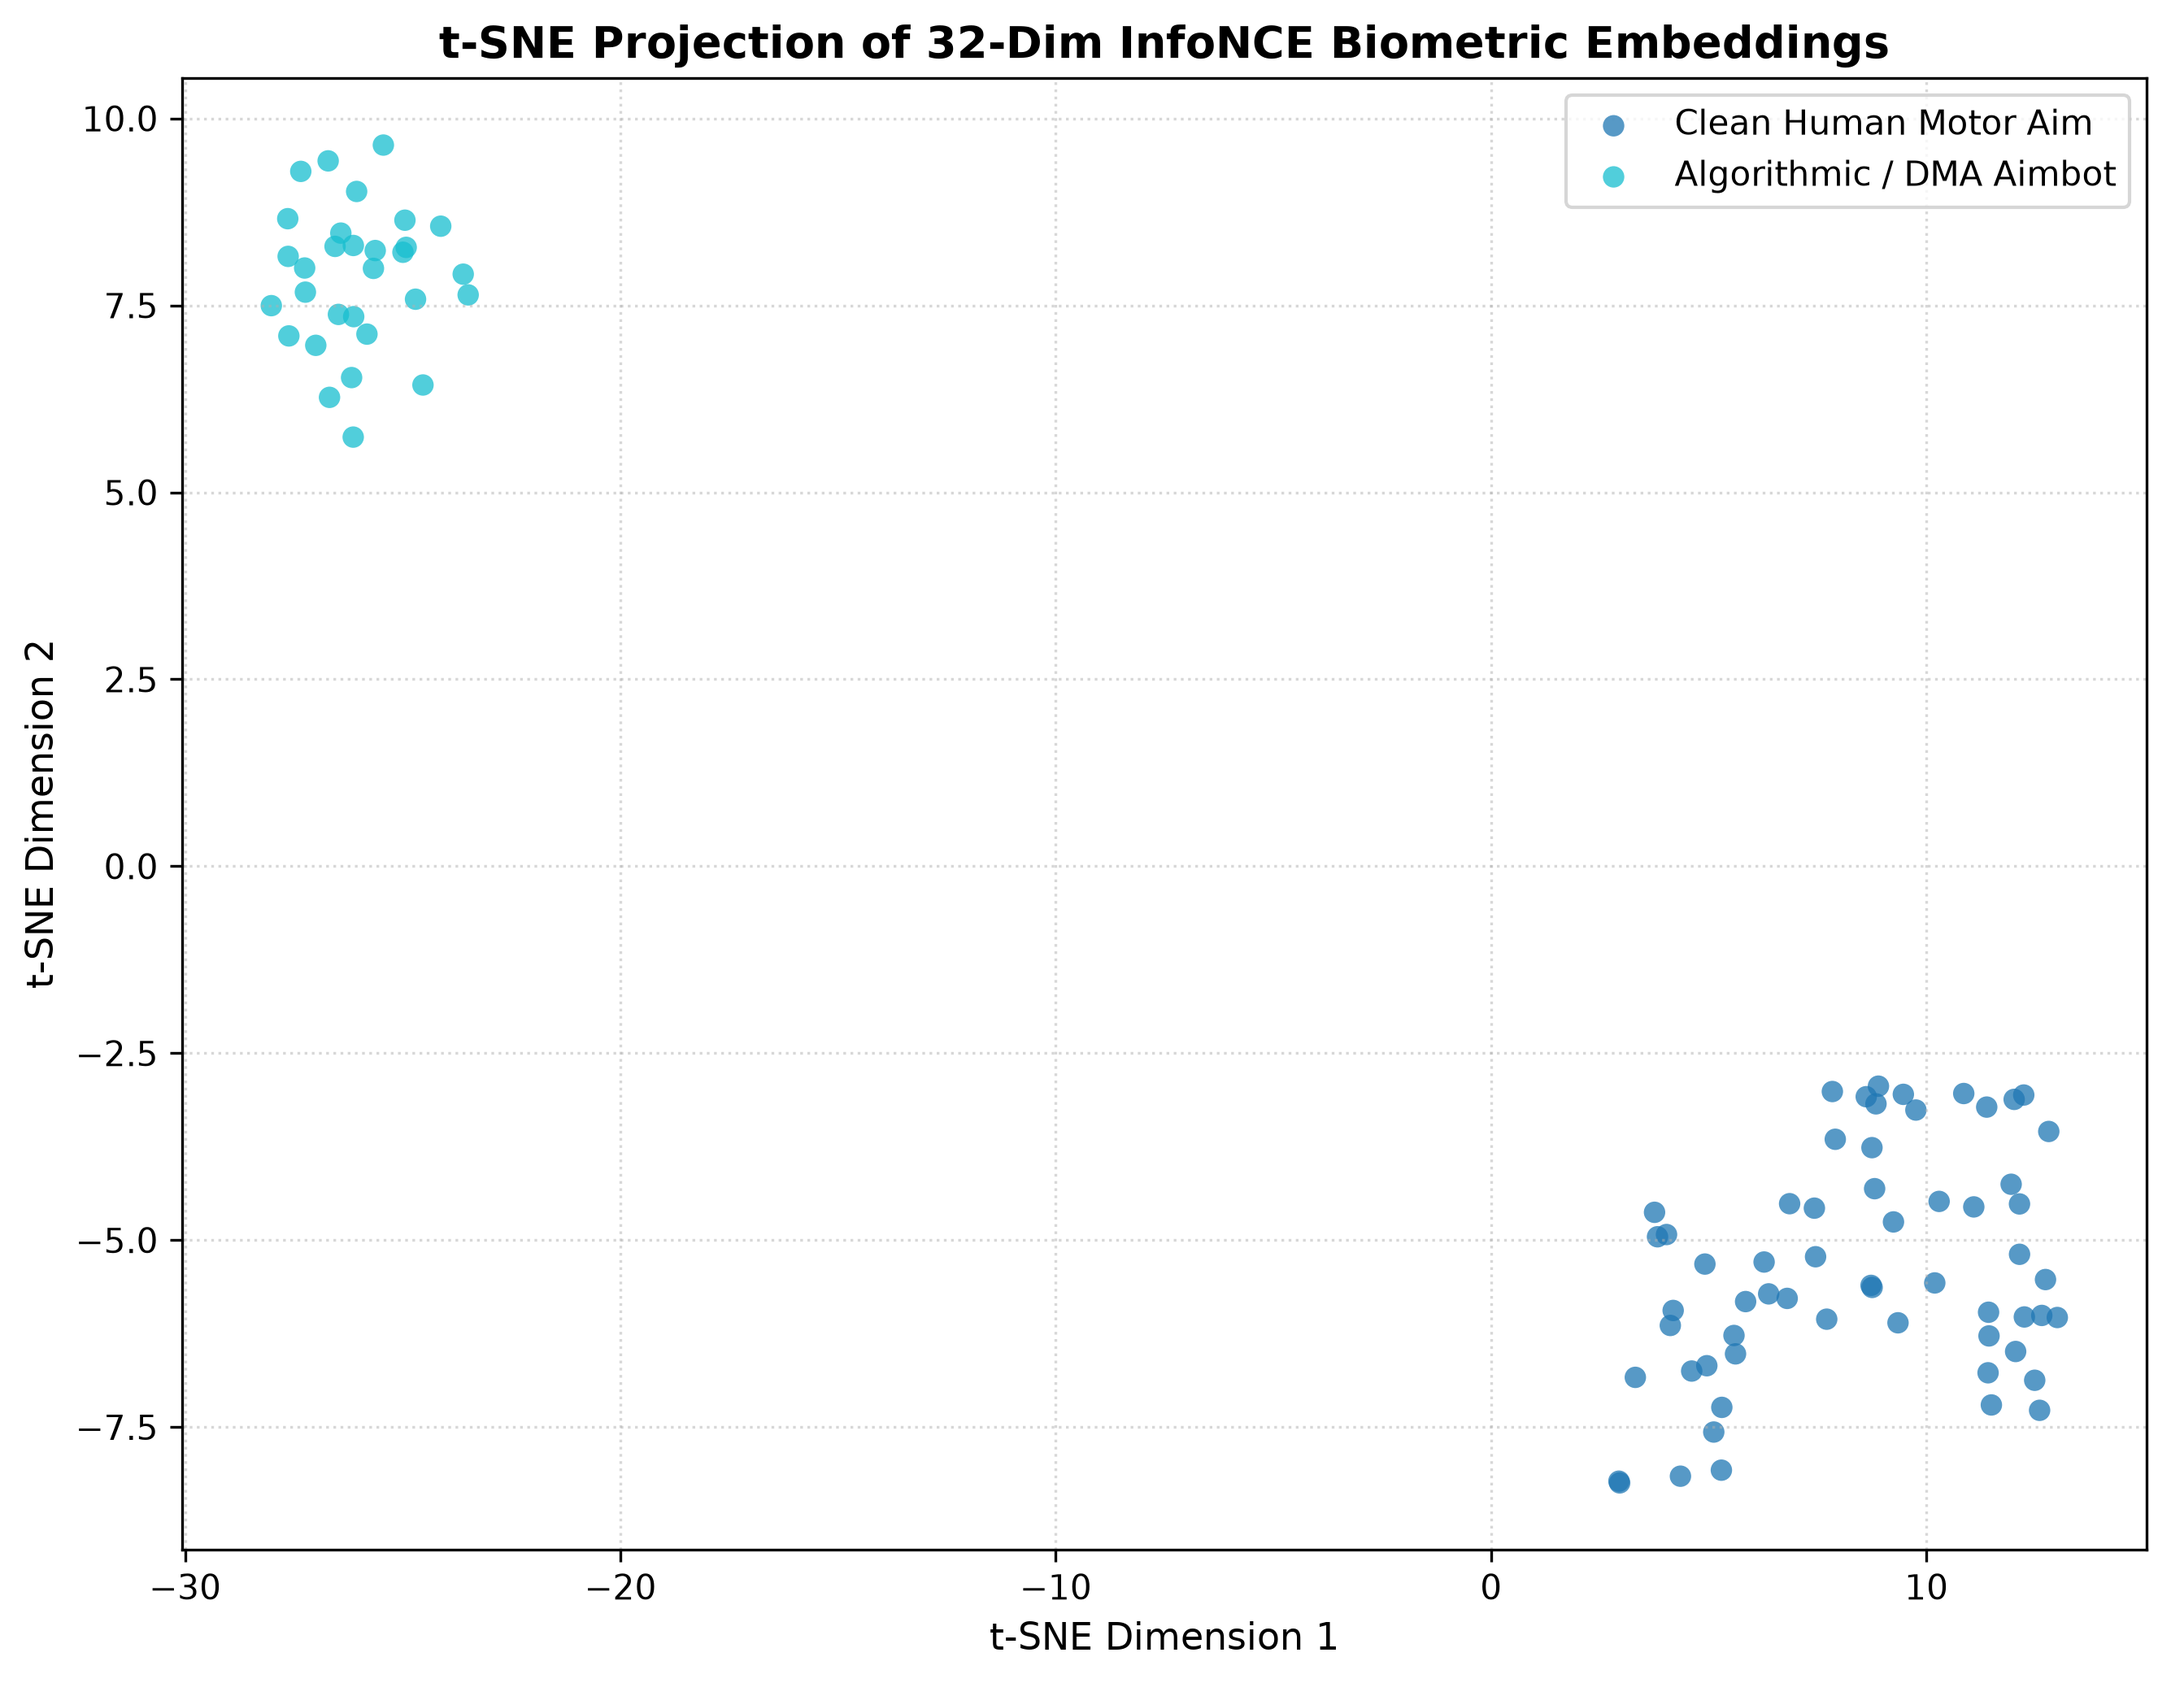
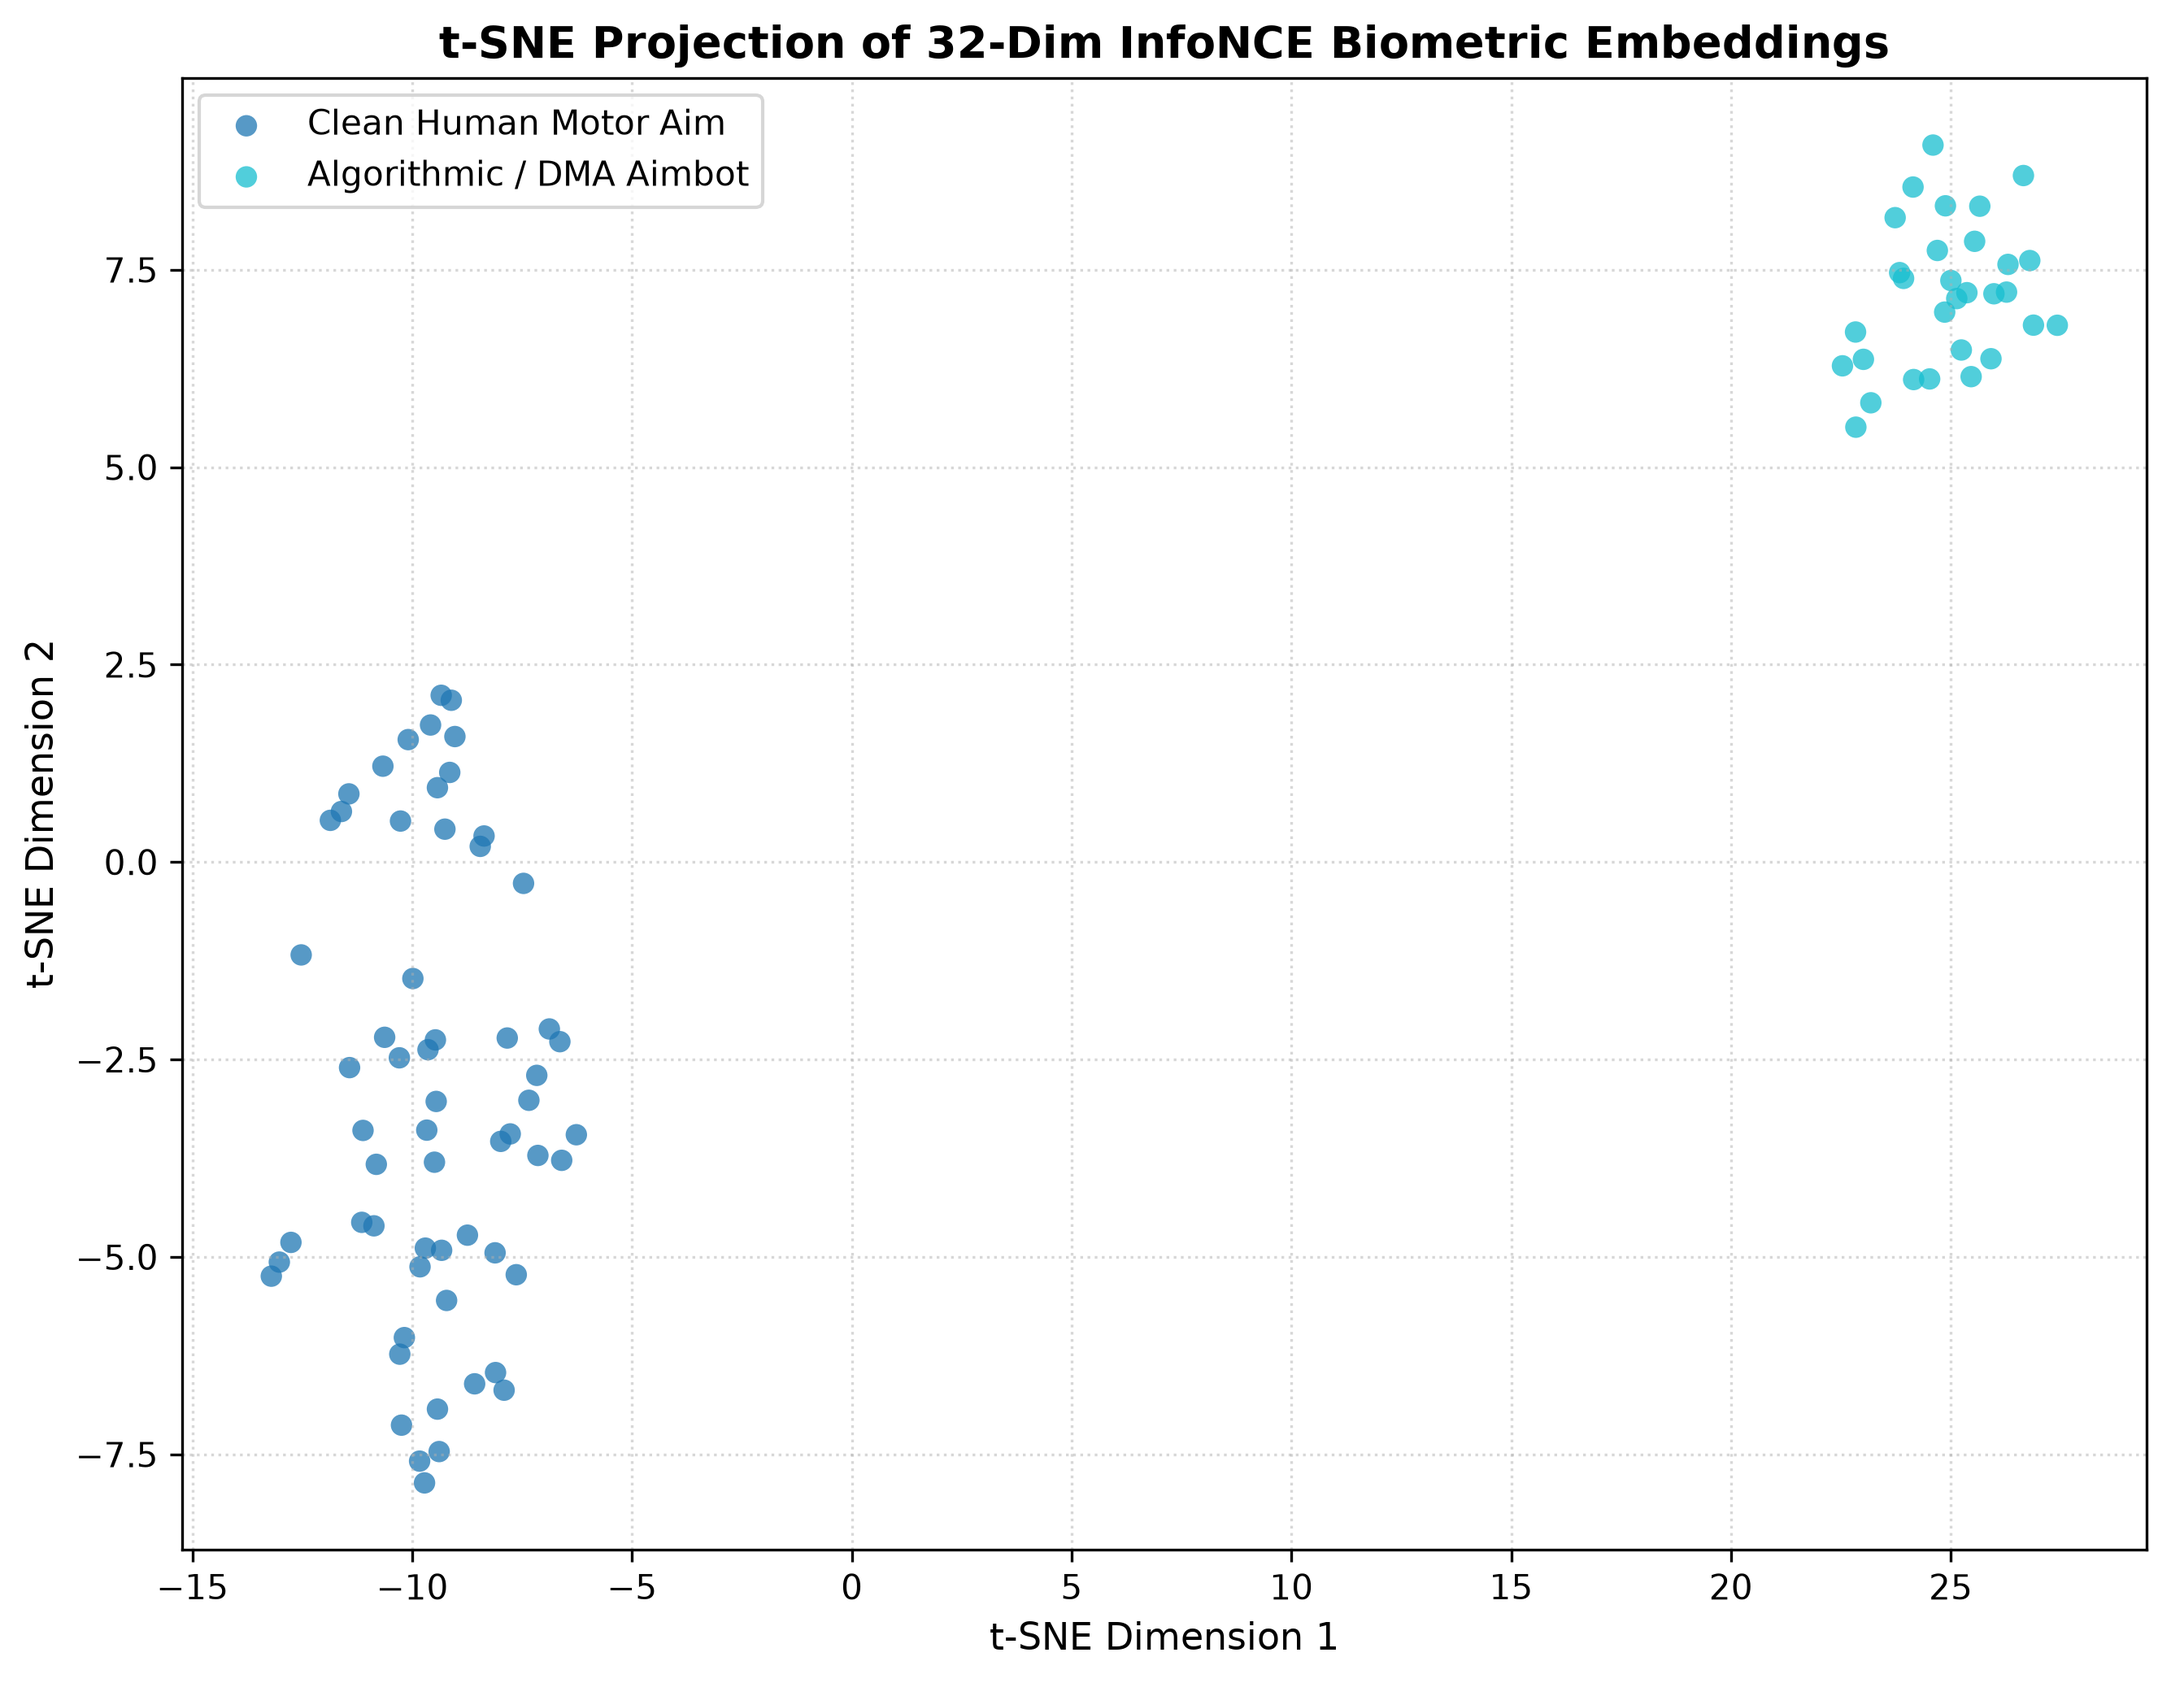
feat: complete comparative benchmark suite with 48 tabular features; align demo_sample ST-Trans dims to Table 6

diff --git a/cs2-trajectory-transformer/demo_sample.py b/cs2-trajectory-transformer/demo_sample.py
@@ -43,14 +43,14 @@ def main():
         'angular_jerk', 'trajectory_curvature', 'curvature_entropy', 'tremor_power_8_12hz'
     ]
     
-    # 1. Instantiate ST-Trans Architecture
+    # 1. Instantiate ST-Trans Architecture (Aligns with Chapter 3 Table 6)
     model = STTrajectoryTransformer(
         feature_dim=len(feature_cols), 
-        d_model=64, 
-        nhead=4, 
+        d_model=128, 
+        nhead=8, 
         num_layers=4, 
         embed_dim=32,
-        dim_feedforward=256
+        dim_feedforward=512
     )
     
     ckpt_path = args.model_path
